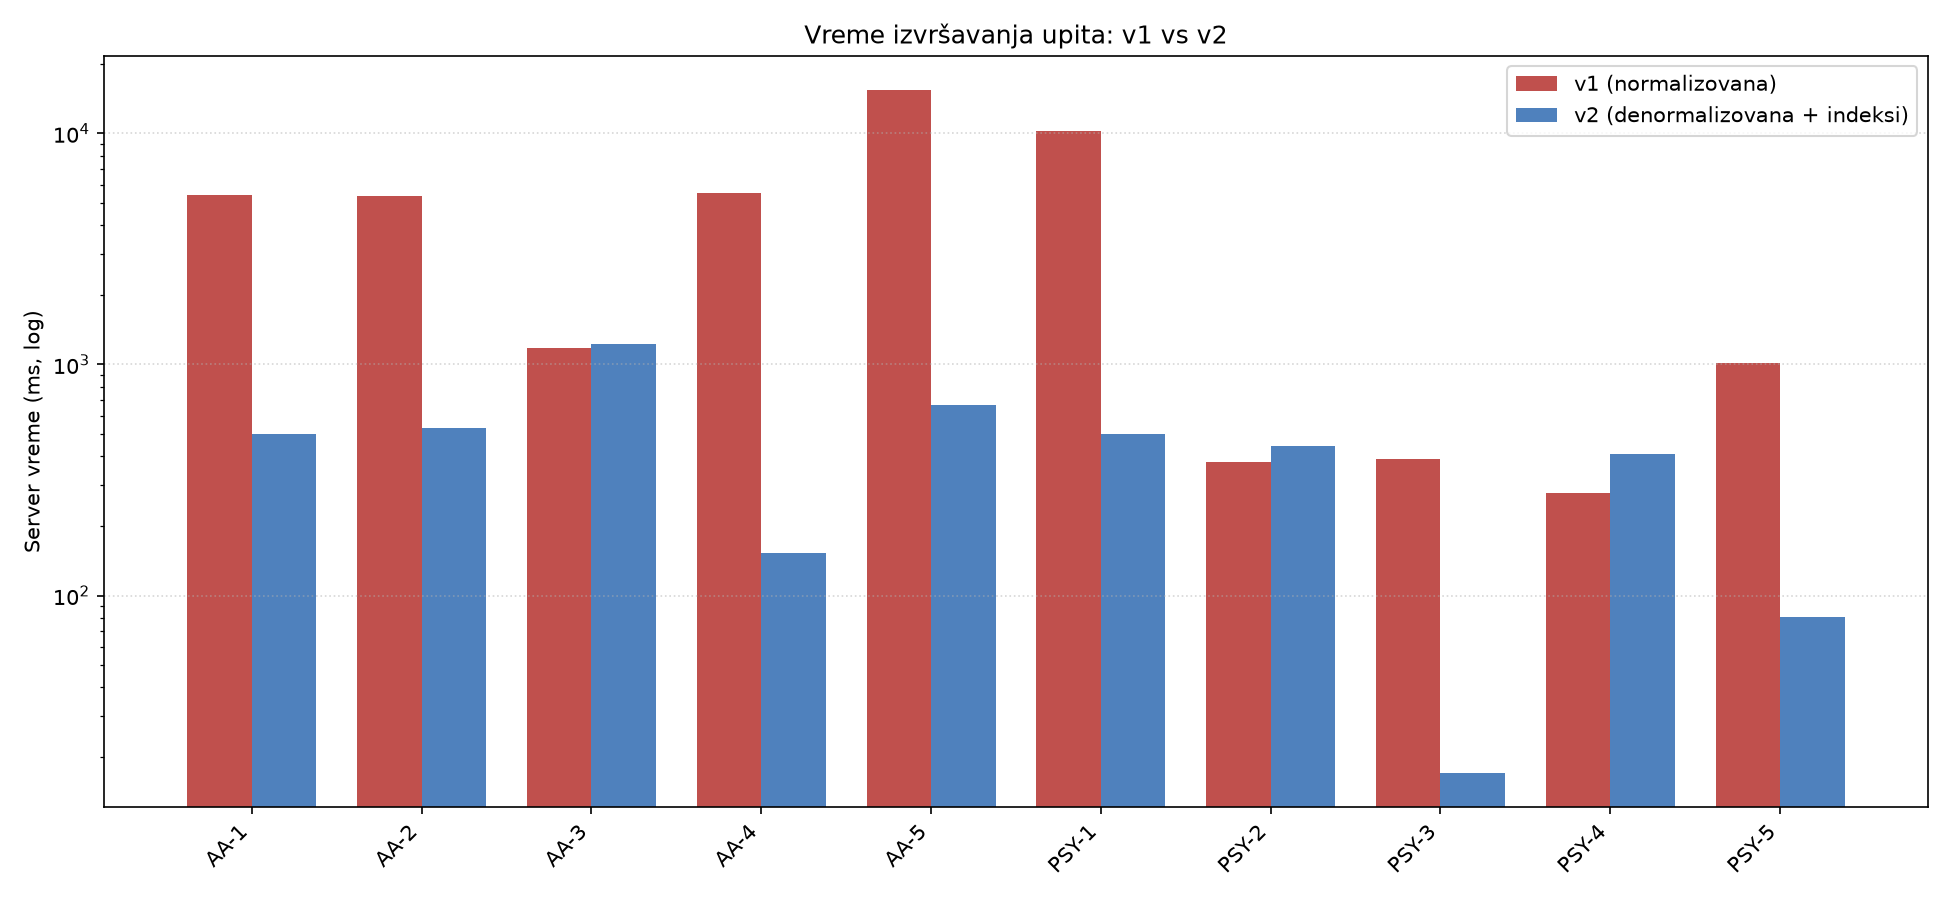
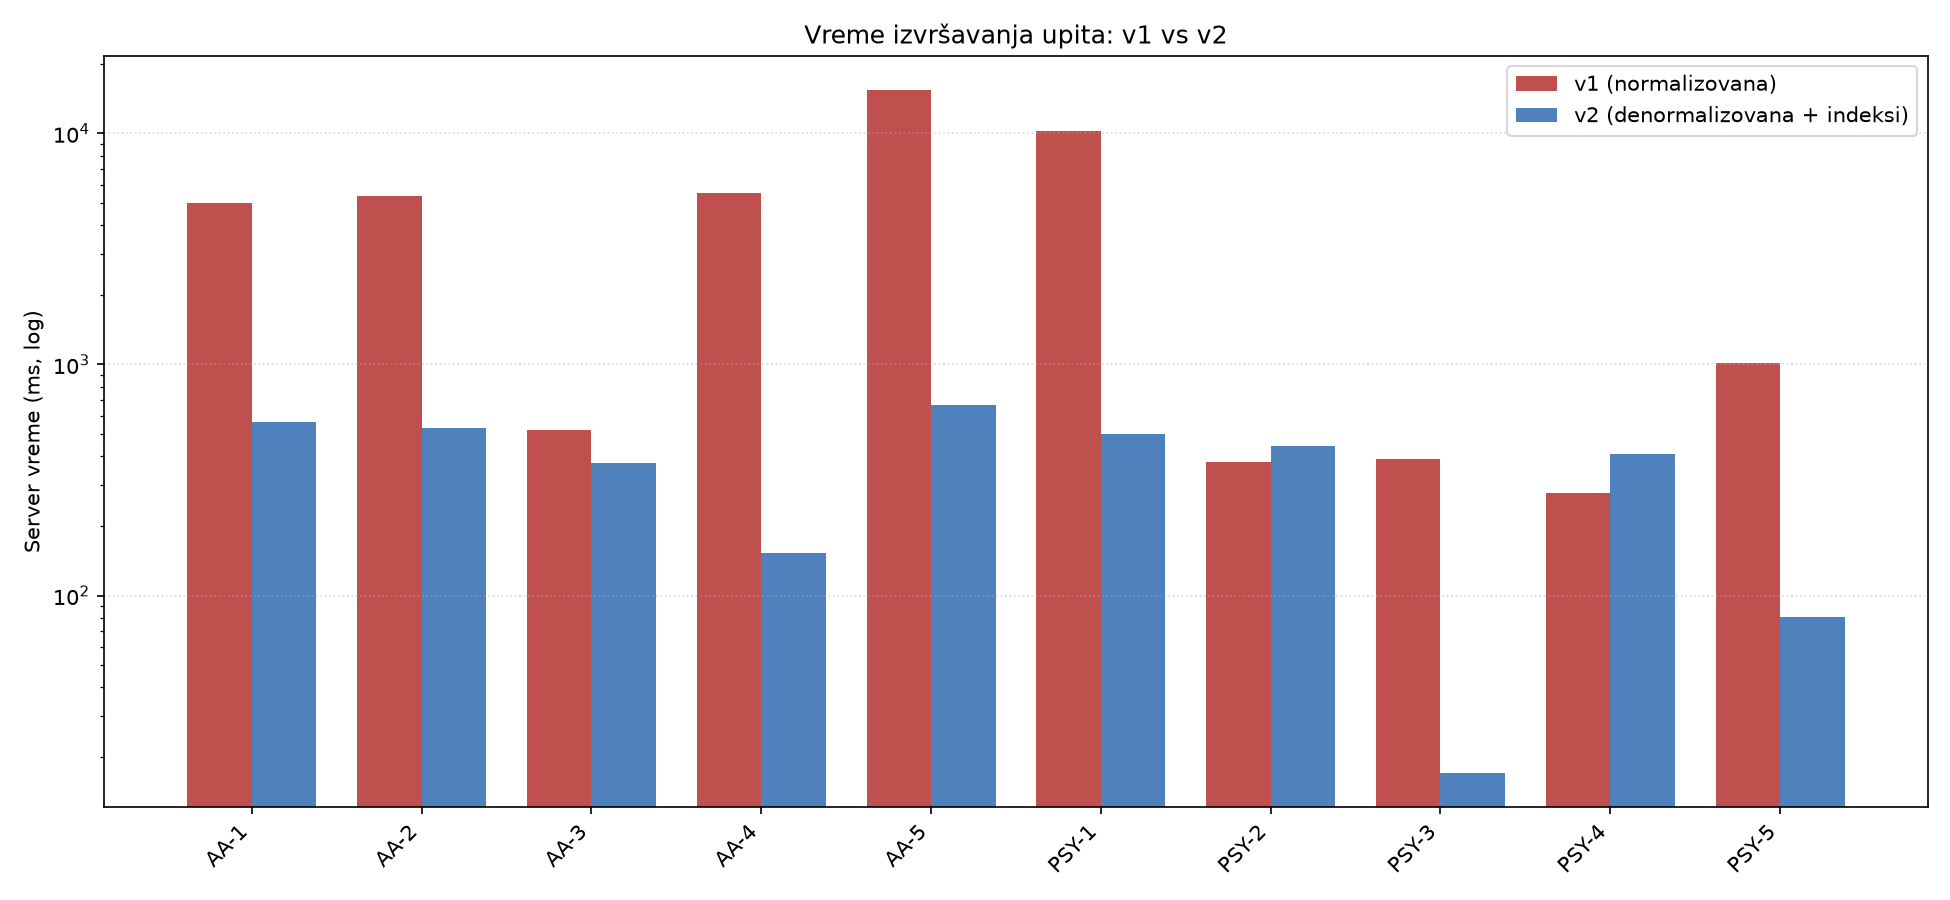
Replace $setWindowFields with primitive group/regroup and two-step queries
- AA-1 (percent of total): second $group with $push/$sum + $unwind/$replaceRoot instead of window
- AA-3 (above average): two-step (compute avg, then filtered $match) instead of window; v2 match uses index
- refresh measured times/docs in results.csv, regenerate charts, update report and Metabase write_results.js

Changed region(s): [[0.2462, 0.3733, 0.3385, 0.5289], [0.1231, 0.4667, 0.1846, 0.4978], [0.0923, 0.2178, 0.1231, 0.2489]]

diff --git a/metabase/write_results.js b/metabase/write_results.js
@@ -41,8 +41,10 @@ db.students.aggregate([
   { $group: { _id: "$derived.social_media_band", broj_studenata: { $sum: 1 },
       prosek_produktivnost: { $avg: "$productivity_score" }, prosek_sati_ucenja: { $avg: "$study_hours_per_week" },
       prosek_akademski_rizik: { $avg: "$academic_risk_score" } } },
-  { $setWindowFields: { sortBy: { _id: 1 }, output: { ukupno: { $sum: "$broj_studenata", window: { documents: ["unbounded", "unbounded"] } } } } },
-  { $addFields: { procenat: { $multiply: [{ $divide: ["$broj_studenata", "$ukupno"] }, 100] } } },
+  { $group: { _id: null, grupe: { $push: "$$ROOT" }, ukupno: { $sum: "$broj_studenata" } } },
+  { $unwind: "$grupe" },
+  { $addFields: { "grupe.procenat": { $multiply: [{ $divide: ["$grupe.broj_studenata", "$ukupno"] }, 100] } } },
+  { $replaceRoot: { newRoot: "$grupe" } },
   { $sort: { _id: 1 } }, { $out: "results_sav_q1" }], O);
 
 db.students.aggregate([
@@ -53,10 +55,9 @@ db.students.aggregate([
       prosek_stres_visokorizicni: { $cond: [{ $gt: ["$visokorizicni", 0] }, { $divide: ["$suma_stres_hr", "$visokorizicni"] }, null] } } },
   { $project: { suma_stres_hr: 0 } }, { $sort: { procenat_visokorizicnih: -1 } }, { $out: "results_sav_q2" }], O);
 
+const prosek_sav_q3 = db.students.aggregate([{ $group: { _id: null, m: { $avg: "$academic_risk_score" } } }]).toArray()[0].m;
 db.students.aggregate([
-  { $project: { academic_risk_score: 1, study_hours_per_week: 1, productivity_score: 1, social_media_hours: 1 } },
-  { $setWindowFields: { sortBy: { _id: 1 }, output: { m: { $avg: "$academic_risk_score", window: { documents: ["unbounded", "unbounded"] } } } } },
-  { $match: { $expr: { $gt: ["$academic_risk_score", "$m"] } } },
+  { $match: { academic_risk_score: { $gt: prosek_sav_q3 } } },
   { $group: { _id: null, broj_studenata: { $sum: 1 }, prosek_sati_ucenja: { $avg: "$study_hours_per_week" },
       prosek_produktivnost: { $avg: "$productivity_score" }, prosek_sati_mreze: { $avg: "$social_media_hours" } } },
   { $out: "results_sav_q3" }], O);

diff --git a/v2/queries/savetnik/README.md b/v2/queries/savetnik/README.md
@@ -3,7 +3,7 @@
 > Pokrenuti u `mongosh` ili MongoDB Compass nad bazom `sbp-v2` (jedna kolekcija `students`).
 > Vreme je izmereno preko `explain("executionStats")` (server vreme, medijana od 3 izvršavanja).
 
-### 1. Po dnevnim satima na mrežama (<2h, 2-4h, 4-6h, >6h): broj, procenat, prosečan skor produktivnosti, prosečan broj sati učenja, prosečan akademski rizik. — 500 ms
+### 1. Po dnevnim satima na mrežama (<2h, 2-4h, 4-6h, >6h): broj, procenat, prosečan skor produktivnosti, prosečan broj sati učenja, prosečan akademski rizik. — 565 ms
 
 ```javascript
 db.students.aggregate([
@@ -13,9 +13,11 @@ db.students.aggregate([
       prosek_produktivnost: { $avg: "$productivity_score" },
       prosek_sati_ucenja: { $avg: "$study_hours_per_week" },
       prosek_akademski_rizik: { $avg: "$academic_risk_score" } } },
-  { $setWindowFields: { sortBy: { _id: 1 }, output: {
-      ukupno: { $sum: "$broj_studenata", window: { documents: ["unbounded", "unbounded"] } } } } },
-  { $addFields: { procenat: { $multiply: [{ $divide: ["$broj_studenata", "$ukupno"] }, 100] } } },
+  // procenat od ukupnog: skupi grupe u niz + saberi ukupno, pa razmotaj nazad
+  { $group: { _id: null, grupe: { $push: "$$ROOT" }, ukupno: { $sum: "$broj_studenata" } } },
+  { $unwind: "$grupe" },
+  { $addFields: { "grupe.procenat": { $multiply: [{ $divide: ["$grupe.broj_studenata", "$ukupno"] }, 100] } } },
+  { $replaceRoot: { newRoot: "$grupe" } },
   { $sort: { _id: 1 } }
 ], { allowDiskUse: true })
 ```
@@ -46,15 +48,19 @@ db.students.aggregate([
 Rezultat upita:<br>
 ![Rezultat upita](./q2.png)
 
-### 3. Studenti sa akademskim rizikom iznad proseka: ukupan broj, prosečan broj sati učenja, skor produktivnosti i broj sati na mrežama. — 1227 ms
+### 3. Studenti sa akademskim rizikom iznad proseka: ukupan broj, prosečan broj sati učenja, skor produktivnosti i broj sati na mrežama. — 376 ms (prosek + filter)
+
+Dva koraka: prvo prosečan akademski rizik, pa filter iznad tog praga (u v2 `$match` koristi indeks `academic_risk_score`).
 
 ```javascript
+// 1) prosečan akademski rizik
+const prosek = db.students.aggregate([
+  { $group: { _id: null, m: { $avg: "$academic_risk_score" } } }
+]).toArray()[0].m;
+
+// 2) studenti iznad proseka
 db.students.aggregate([
-  { $project: { academic_risk_score: 1, study_hours_per_week: 1,
-                productivity_score: 1, social_media_hours: 1 } },
-  { $setWindowFields: { sortBy: { _id: 1 }, output: {
-      m: { $avg: "$academic_risk_score", window: { documents: ["unbounded", "unbounded"] } } } } },
-  { $match: { $expr: { $gt: ["$academic_risk_score", "$m"] } } },
+  { $match: { academic_risk_score: { $gt: prosek } } },
   { $group: {
       _id: null,
       broj_studenata: { $sum: 1 },

diff --git a/v1/queries/savetnik/README.md b/v1/queries/savetnik/README.md
@@ -3,7 +3,7 @@
 > Pokrenuti u `mongosh` ili MongoDB Compass nad bazom `sbp-v1`.
 > Vreme je izmereno preko `explain("executionStats")` (server vreme, medijana od 3 izvršavanja).
 
-### 1. Grupisati studente po dnevnim satima korišćenja društvenih mreža (<2h, 2-4h, 4-6h, >6h); prikazati broj studenata, procenat, prosečan skor produktivnosti, prosečan broj sati učenja i prosečan akademski rizik. — 5413 ms
+### 1. Grupisati studente po dnevnim satima korišćenja društvenih mreža (<2h, 2-4h, 4-6h, >6h); prikazati broj studenata, procenat, prosečan skor produktivnosti, prosečan broj sati učenja i prosečan akademski rizik. — 5015 ms
 
 ```javascript
 db.digital_behavior.aggregate([
@@ -20,9 +20,11 @@ db.digital_behavior.aggregate([
       prosek_produktivnost: { $avg: "$a.productivity_score" },
       prosek_sati_ucenja: { $avg: "$a.study_hours_per_week" },
       prosek_akademski_rizik: { $avg: "$a.academic_risk_score" } } },
-  { $setWindowFields: { sortBy: { _id: 1 }, output: {
-      ukupno: { $sum: "$broj_studenata", window: { documents: ["unbounded", "unbounded"] } } } } },
-  { $addFields: { procenat: { $multiply: [{ $divide: ["$broj_studenata", "$ukupno"] }, 100] } } },
+  // procenat od ukupnog: skupi grupe u niz + saberi ukupno, pa razmotaj nazad
+  { $group: { _id: null, grupe: { $push: "$$ROOT" }, ukupno: { $sum: "$broj_studenata" } } },
+  { $unwind: "$grupe" },
+  { $addFields: { "grupe.procenat": { $multiply: [{ $divide: ["$grupe.broj_studenata", "$ukupno"] }, 100] } } },
+  { $replaceRoot: { newRoot: "$grupe" } },
   { $sort: { _id: 1 } }
 ], { allowDiskUse: true })
 ```
@@ -56,14 +58,19 @@ db.wellbeing.aggregate([
 Rezultat upita:<br>
 ![Rezultat upita](./q2.png)
 
-### 3. Izdvojiti studente sa akademskim rizikom iznad proseka; prikazati ukupan broj studenata, prosečan broj sati učenja, prosečan skor produktivnosti i prosečan broj sati na društvenim mrežama. — 1176 ms
+### 3. Izdvojiti studente sa akademskim rizikom iznad proseka; prikazati ukupan broj studenata, prosečan broj sati učenja, prosečan skor produktivnosti i prosečan broj sati na društvenim mrežama. — 522 ms (prosek + filter)
+
+Dva koraka: prvo se izračuna prosečan akademski rizik, pa se ta vrednost ubaci kao prag.
 
 ```javascript
+// 1) prosečan akademski rizik
+const prosek = db.academic.aggregate([
+  { $group: { _id: null, m: { $avg: "$academic_risk_score" } } }
+]).toArray()[0].m;
+
+// 2) studenti iznad proseka
 db.academic.aggregate([
-  { $project: { academic_risk_score: 1, study_hours_per_week: 1, productivity_score: 1 } },
-  { $setWindowFields: { sortBy: { _id: 1 }, output: {
-      m: { $avg: "$academic_risk_score", window: { documents: ["unbounded", "unbounded"] } } } } },
-  { $match: { $expr: { $gt: ["$academic_risk_score", "$m"] } } },
+  { $match: { academic_risk_score: { $gt: prosek } } },
   { $lookup: { from: "digital_behavior", localField: "_id", foreignField: "_id", as: "d" } },
   { $unwind: "$d" },
   { $group: {

diff --git a/docs/izvestaj.md b/docs/izvestaj.md
@@ -120,10 +120,10 @@ Izmereno (server vreme iz `executionStats`, medijana od 3; `docs` = pregledani d
 | AA-5 | countries+students+academic+wellbeing (3) | 15394 | 669 | **23,0×** | 2.000.003 | 500.000 |
 | PSY-1 | students+wellbeing+academic (2) | 10256 | 502 | **20,4×** | 1.500.002 | 500.000 |
 | AA-4 | digital_behavior+academic (1) | 5534 | 153 | **36,2×** | 1.000.001 | 90.432 |
-| AA-1 | digital_behavior+academic (1) | 5413 | 500 | **10,8×** | 1.000.001 | 500.000 |
 | AA-2 | wellbeing+students (1) | 5365 | 529 | **10,1×** | 1.000.001 | 500.000 |
+| AA-1 | digital_behavior+academic (1) | 5015 | 565 | **8,9×** | 1.000.001 | 500.000 |
 | PSY-5 | wellbeing+digital_behavior (1) | 1013 | 81 | **12,5×** | 573.650 | 10.690 |
-| AA-3 | academic+digital_behavior (1) | 1176 | 1227 | 0,96× | 516.392 | 500.000 |
+| AA-3 | academic+digital_behavior (1), 2 koraka | 522 | 376 | 1,4× | 1.016.392 | 516.391 |
 | PSY-3 | digital_behavior+wellbeing+academic (2) | 388 | 17 | **22,8×** | 528.208 | 14.103 |
 | PSY-2 | digital_behavior (0) | 379 | 442 | 0,86× | 500.000 | 500.000 |
 | PSY-4 | wellbeing (0) | 278 | 410 | 0,68× | 500.000 | 500.000 |
@@ -138,9 +138,11 @@ COLLSCAN na IXSCAN (PSY-3: 528k→14k dokumenata, PSY-5: 574k→11k). Najveći e
 
 Tamo gde nema ni join-a ni selektivnog filtera, denormalizacija ne pomaže — štaviše,
 PSY-2 (0,86×) i PSY-4 (0,68×) su u v2 **neznatno sporiji** jer su dokumenti širi (više
-polja po dokumentu za skeniranje pri punom `$group`-u), a AA-3 je praktično isti (0,96×)
-jer `$setWindowFields` u oba slučaja prolazi ceo skup. Ovo svesno uključujemo u analizu:
-denormalizacija je ciljana optimizacija za join-teške upite, a ne univerzalni dobitak.
+polja po dokumentu za skeniranje pri punom `$group`-u). AA-3 je rešen u **dva koraka**
+(prosek pa filter): indeks u v2 ubrzava korak filtriranja (28 ms naspram 295 ms u v1),
+ali neizbežan pun prolaz radi računanja proseka dominira, pa je ukupno ubrzanje skromno
+(~1,4×). Ovo svesno uključujemo u analizu: denormalizacija i indeksi su ciljana
+optimizacija za join-teške i filtrirajuće upite, a ne univerzalni dobitak.
 
 ## 9. Vizualizacija u Metabase-u
 